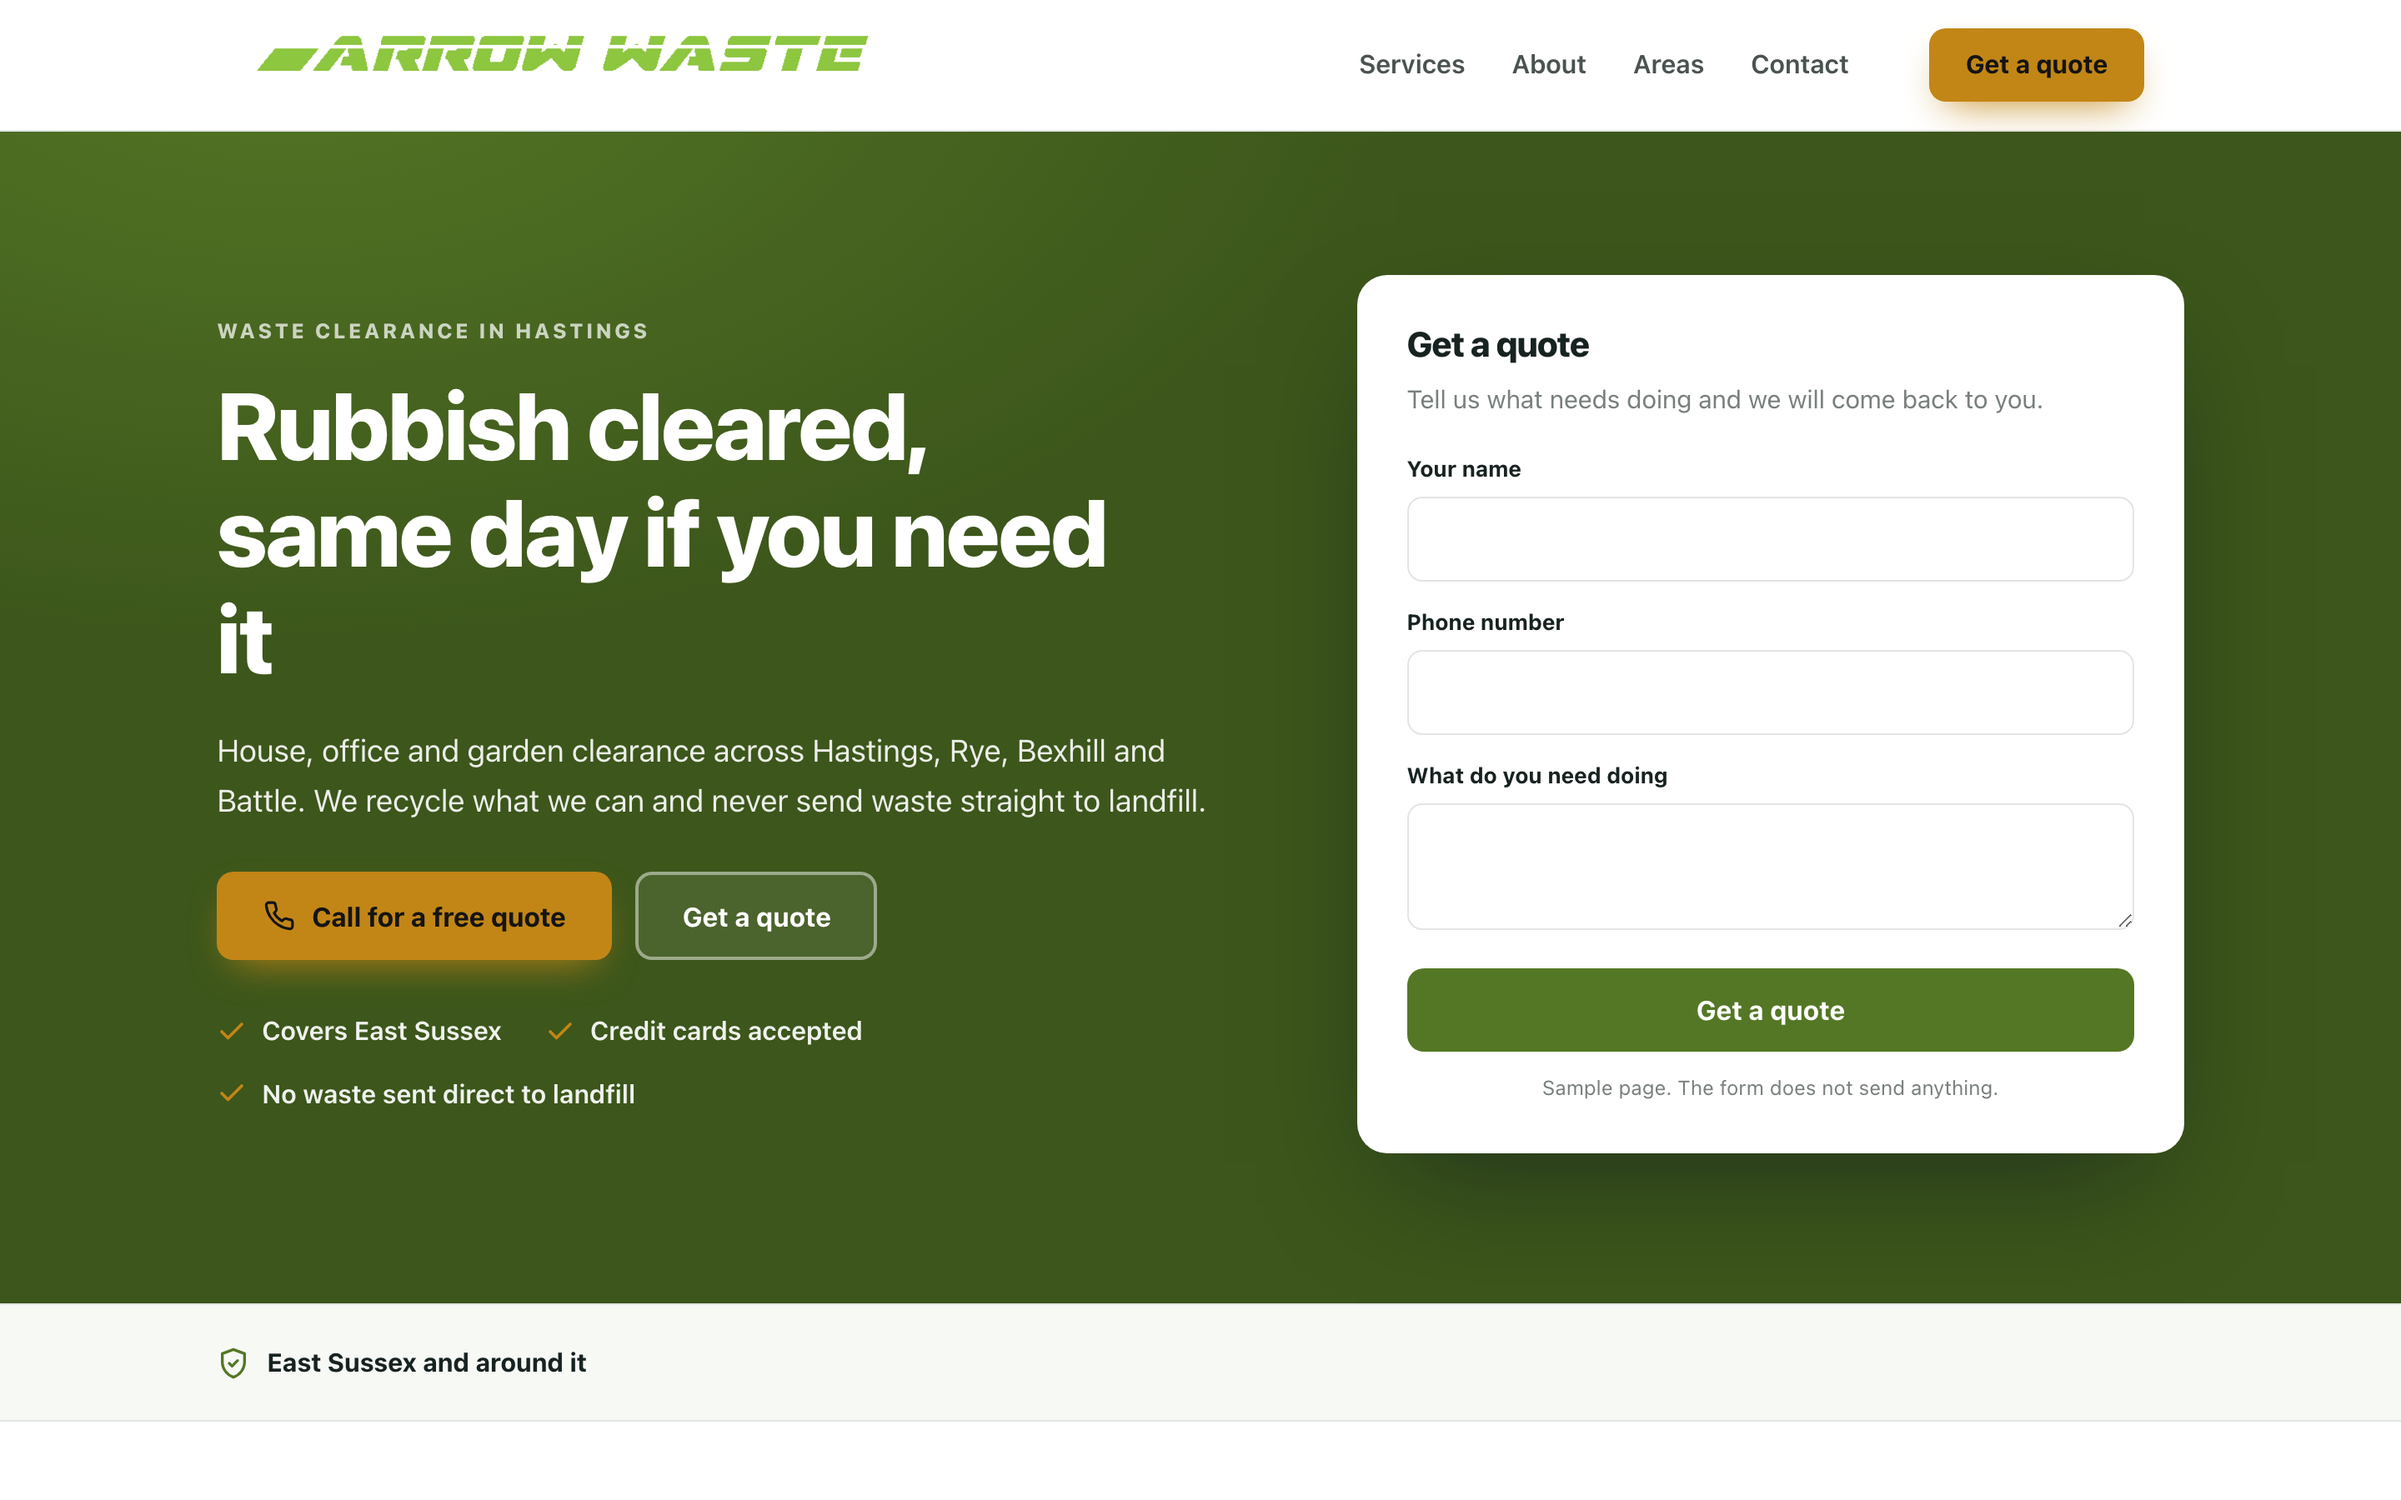
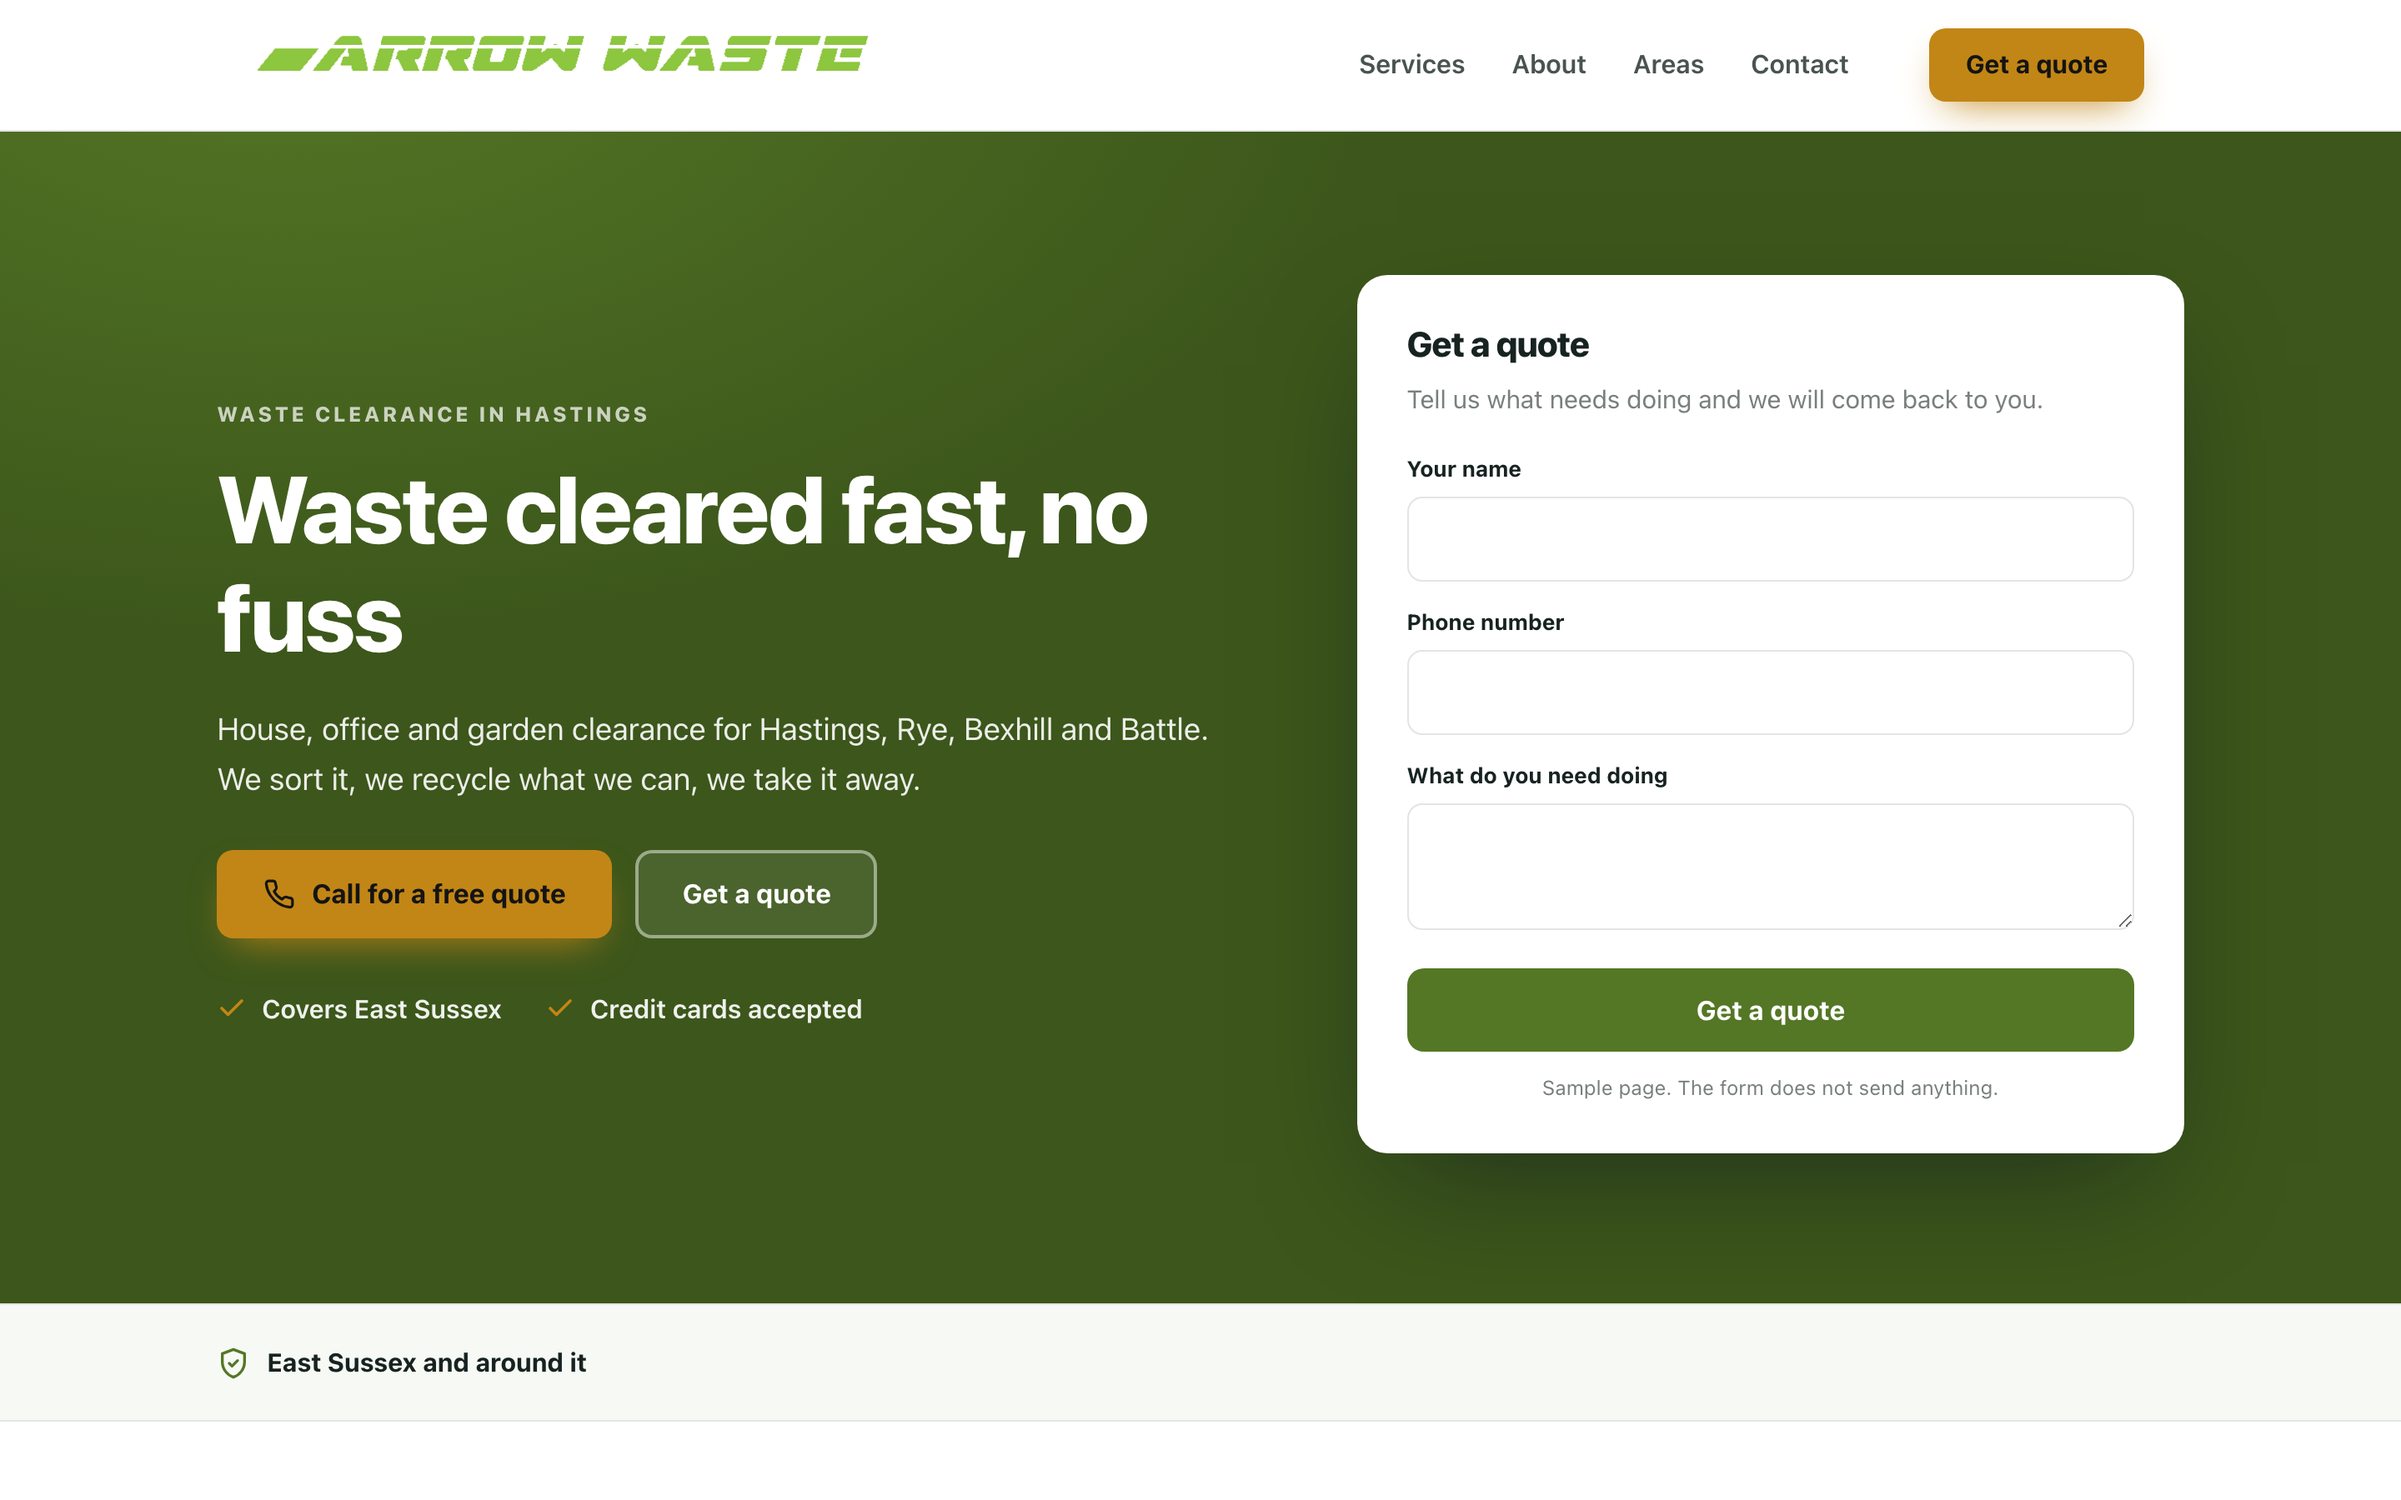
Sample homepage for Arrow Waste

Changed region(s): [[0.0938, 0.2178, 0.5, 0.7467]]

diff --git a/docs/5722048134/index.html b/docs/5722048134/index.html
@@ -5,11 +5,11 @@
 <meta name="viewport" content="width=device-width, initial-scale=1">
 <meta name="robots" content="noindex,nofollow">
 <title>Arrow Waste sample homepage</title>
-<meta name="description" content="House, office and garden clearance across Hastings, Rye, Bexhill and Battle. We recycle what we can and never send waste straight to landfill.">
+<meta name="description" content="House, office and garden clearance for Hastings, Rye, Bexhill and Battle. We sort it, we recycle what we can, we take it away.">
 <link rel="canonical" href="https://markygff.github.io/aso-mockups/5722048134/">
 <meta property="og:type" content="website">
 <meta property="og:title" content="Arrow Waste sample homepage">
-<meta property="og:description" content="House, office and garden clearance across Hastings, Rye, Bexhill and Battle. We recycle what we can and never send waste straight to landfill.">
+<meta property="og:description" content="House, office and garden clearance for Hastings, Rye, Bexhill and Battle. We sort it, we recycle what we can, we take it away.">
 <meta property="og:url" content="https://markygff.github.io/aso-mockups/5722048134/">
 <style>
 :root{
@@ -52,7 +52,8 @@ p{margin:0}
 .nav{display:flex;gap:28px;margin-left:auto;font-weight:600;font-size:.97rem;color:var(--ink)}
 .nav span{opacity:.78}
 .header-cta{display:flex;align-items:center;gap:14px;margin-left:28px}
-.tel{display:flex;align-items:center;gap:9px;font-weight:800;font-size:1.1rem;color:var(--ink)}
+.tel{display:flex;align-items:center;gap:9px;font-weight:800;font-size:1.1rem;
+     color:var(--ink);text-decoration:none}
 .tel svg{width:20px;height:20px;color:var(--accent)}
 .header-cta .btn{padding:12px 20px;font-size:.95rem}
 
@@ -119,7 +120,7 @@ p{margin:0}
 <header class="header">
   <div class="wrap header-in">
     <div class="brand">
-<img src="http://arrowwaste.co.uk/gif/logowhite750.gif" alt="Arrow Waste logo">    </div>
+<img src="img/logo.png" alt="Arrow Waste logo">    </div>
     <nav class="nav">
       <span>Services</span><span>About</span><span>Areas</span><span>Contact</span>
     </nav>
@@ -134,14 +135,14 @@ p{margin:0}
   <div class="wrap hero-in">
     <div>
       <p class="eyebrow">Waste clearance in Hastings</p>
-      <h1>Rubbish cleared, same day if you need it</h1>
-      <p class="hero-sub">House, office and garden clearance across Hastings, Rye, Bexhill and Battle. We recycle what we can and never send waste straight to landfill.</p>
+      <h1>Waste cleared fast, no fuss</h1>
+      <p class="hero-sub">House, office and garden clearance for Hastings, Rye, Bexhill and Battle. We sort it, we recycle what we can, we take it away.</p>
       <div class="hero-actions">
         <span class="btn btn-accent"><svg viewBox="0 0 24 24" fill="none" stroke="currentColor" stroke-width="2" stroke-linecap="round" stroke-linejoin="round" aria-hidden="true"><path d="M22 16.9v3a2 2 0 0 1-2.2 2 19.8 19.8 0 0 1-8.6-3.1 19.5 19.5 0 0 1-6-6 19.8 19.8 0 0 1-3.1-8.7A2 2 0 0 1 4.1 2h3a2 2 0 0 1 2 1.7c.1 1 .4 1.9.7 2.8a2 2 0 0 1-.5 2.1L8.1 9.9a16 16 0 0 0 6 6l1.3-1.2a2 2 0 0 1 2.1-.5c.9.3 1.8.6 2.8.7a2 2 0 0 1 1.7 2z"/></svg>Call for a free quote</span>
         <span class="btn btn-ghost">Get a quote</span>
       </div>
       <ul class="hero-bullets">
-<li><svg viewBox="0 0 24 24" fill="none" stroke="currentColor" stroke-width="2.4" stroke-linecap="round" stroke-linejoin="round" aria-hidden="true"><path d="M20 6 9 17l-5-5"/></svg><span>Covers East Sussex</span></li><li><svg viewBox="0 0 24 24" fill="none" stroke="currentColor" stroke-width="2.4" stroke-linecap="round" stroke-linejoin="round" aria-hidden="true"><path d="M20 6 9 17l-5-5"/></svg><span>Credit cards accepted</span></li><li><svg viewBox="0 0 24 24" fill="none" stroke="currentColor" stroke-width="2.4" stroke-linecap="round" stroke-linejoin="round" aria-hidden="true"><path d="M20 6 9 17l-5-5"/></svg><span>No waste sent direct to landfill</span></li>      </ul>
+<li><svg viewBox="0 0 24 24" fill="none" stroke="currentColor" stroke-width="2.4" stroke-linecap="round" stroke-linejoin="round" aria-hidden="true"><path d="M20 6 9 17l-5-5"/></svg><span>Covers East Sussex</span></li><li><svg viewBox="0 0 24 24" fill="none" stroke="currentColor" stroke-width="2.4" stroke-linecap="round" stroke-linejoin="round" aria-hidden="true"><path d="M20 6 9 17l-5-5"/></svg><span>Credit cards accepted</span></li>      </ul>
     </div>
     <div class="quote-card">
       <h3>Get a quote</h3>
@@ -166,28 +167,28 @@ p{margin:0}
     <div class="services-head">
       <p class="eyebrow">What we do</p>
       <h2>Arrow Waste, East Sussex</h2>
-      <p>House, office and garden clearance across Hastings, Rye, Bexhill and Battle. We recycle what we can and never send waste straight to landfill.</p>
+      <p>House, office and garden clearance for Hastings, Rye, Bexhill and Battle. We sort it, we recycle what we can, we take it away.</p>
     </div>
     <div class="grid">
       <article class="card">
         <div class="icon"><svg viewBox="0 0 24 24" fill="none" stroke="currentColor" stroke-width="2" stroke-linecap="round" stroke-linejoin="round" aria-hidden="true"><path d="M14.7 6.3a4 4 0 0 0 5.3 5.3l-8 8a3 3 0 0 1-4.2-4.2z"/><path d="m14.7 6.3 3-3"/></svg></div>
         <h3>House Clearance</h3>
-        <p>We clear a full house at your pace, from one room to the lot.</p>
+        <p>Full house clearance, done in one visit where we can.</p>
       </article>
       <article class="card">
         <div class="icon"><svg viewBox="0 0 24 24" fill="none" stroke="currentColor" stroke-width="2" stroke-linecap="round" stroke-linejoin="round" aria-hidden="true"><path d="M13 2 4 14h7l-1 8 9-12h-7z"/></svg></div>
         <h3>Office Clearance</h3>
-        <p>Desks, files and old kit cleared out so you can get back to work.</p>
+        <p>We clear offices and workspaces without disrupting your day.</p>
       </article>
       <article class="card">
         <div class="icon"><svg viewBox="0 0 24 24" fill="none" stroke="currentColor" stroke-width="2" stroke-linecap="round" stroke-linejoin="round" aria-hidden="true"><path d="M3 10.5 12 3l9 7.5"/><path d="M5 9.5V21h14V9.5"/><path d="M10 21v-6h4v6"/></svg></div>
         <h3>Garden Clearance</h3>
-        <p>Green waste, old sheds and garden junk taken away and sorted.</p>
+        <p>Green waste and garden rubbish cleared and taken away.</p>
       </article>
       <article class="card">
         <div class="icon"><svg viewBox="0 0 24 24" fill="none" stroke="currentColor" stroke-width="2" stroke-linecap="round" stroke-linejoin="round" aria-hidden="true"><path d="M4 20 15 9"/><path d="m14 4 6 6-3 3-6-6z"/><path d="m3 15 6 6"/></svg></div>
-        <h3>Difficult Waste</h3>
-        <p>Awkward items other firms turn down, we&#39;ll take a look and quote.</p>
+        <h3>Recycling</h3>
+        <p>We sort what we collect and recycle as much as possible.</p>
       </article>
     </div>
   </div>
